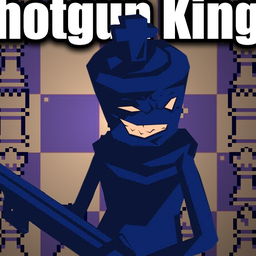
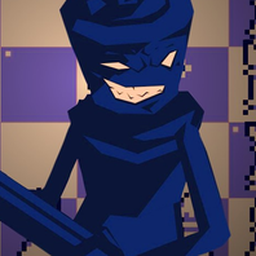
art-audit-q1: Shotgun King (AvZiSnngZjA) king.png cropped below the thumbnail title text; king_b.png recut from video frame maxres1 (king on a clean lavender square, flat navy, no top band / green fringe)

diff --git a/rebuild/tools/art_q1_fix.py b/rebuild/tools/art_q1_fix.py
@@ -178,6 +178,29 @@ def kungfu():
         Image.fromarray(np.dstack([rgb, al]).astype(np.uint8), 'RGBA').save(p, optimize=True)
 
 
+@job
+def shotgunking():
+    """5. AvZiSnngZjA. king.png (intro card + Shotgun King avatar, cut from the thumbnail) had the thumbnail title
+    "hotgun King" across the top: crop y>=58 (title and its outline are gone, the crown's cross tip goes with it) and re-square on the king.
+    king_b.png (the board's black king, 80px) had the dark band above its square across the top and green/pink fringe:
+    recut from the video frame maxres1, the black king standing on a lavender square at ~(700,470) (clean on all sides);
+    alpha = the navy silhouette (dark pixels) with holes filled."""
+    p = os.path.join(M, 'AvZiSnngZjA', 'king.png')
+    k = Image.open(p).convert('RGBA')
+    if k.size == (256, 256):
+        k.crop((40, 58, 238, 256)).resize((256, 256), Image.LANCZOS).save(p, optimize=True)
+    im = np.asarray(frame('AvZiSnngZjA', 'maxres1')).astype(np.float32)
+    c = im[436:504, 668:736]
+    dark = c.mean(-1) < 95
+    fl, n = ndi.label(dark)
+    fg = fl == 1 + int(np.argmax(ndi.sum(dark, fl, range(1, n + 1))))
+    fg = ndi.binary_fill_holes(fg)
+    navy = np.median(c[fg], axis=0)
+    rgb = np.broadcast_to(navy, c.shape)               # the game's sprite is one flat navy; the frame adds CRT lines/noise
+    a = np.dstack([rgb, fg * 255.0]).astype(np.uint8)
+    Image.fromarray(a, 'RGBA').resize((80, 80), Image.LANCZOS).save(os.path.join(M, 'AvZiSnngZjA', 'king_b.png'), optimize=True)
+
+
 if __name__ == '__main__':
     for k in (sys.argv[1:] or list(JOBS)):
         JOBS[k]()
